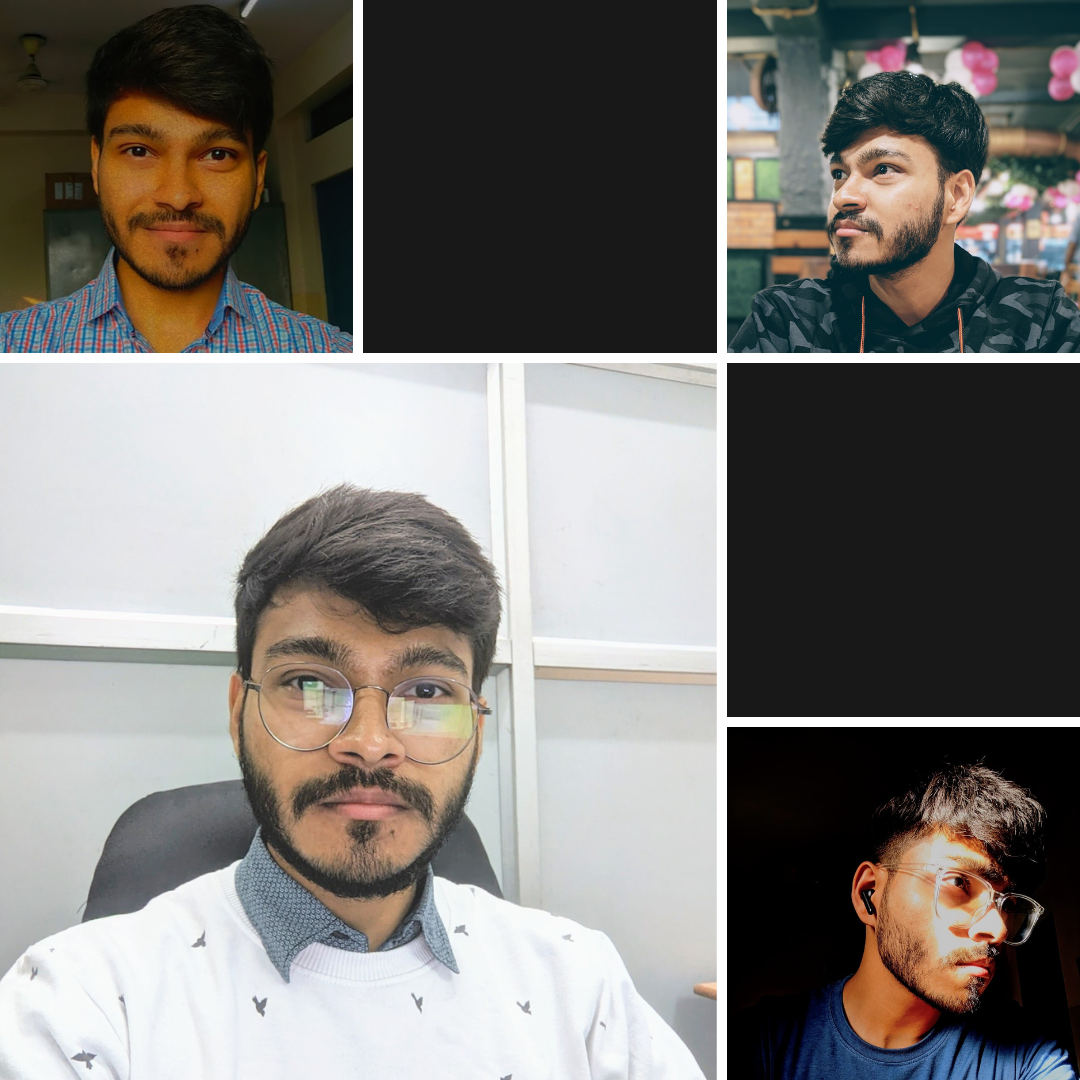
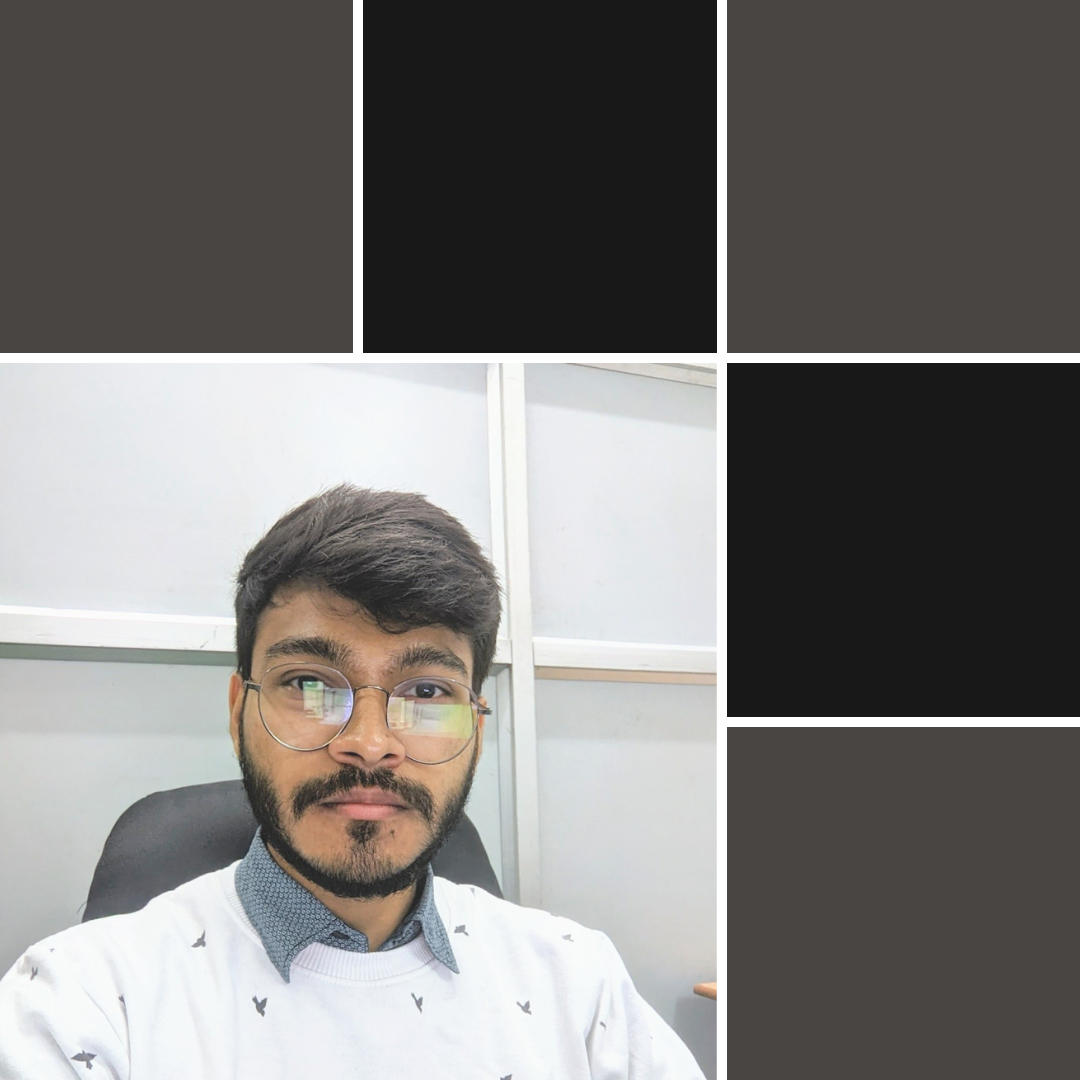
edited about page

diff --git a/src/pages/AboutPage.js b/src/pages/AboutPage.js
@@ -1,6 +1,8 @@
 import React from 'react'
 import Heading from '../components/Heading'
 import MeImage from '../assets/images/me.png'
+import SoftwareImage from '../assets/images/soft.png'
+import HardwareImage from '../assets/images/hard.png'
 import Menu from '../components/Menu'
 
 const AboutPage = () => {
@@ -17,48 +19,32 @@ const AboutPage = () => {
                             <h1>
                                 Started to learn <i>Web Development</i> back in <span>2021</span> - have been <span>loving</span> it ever since!
                             </h1>
-                        </div>
-                    </div>
-                    <div className="row">
-                        <div className="text">
                             <h1>
                                 Now, I create <i>websites</i>, <i>android apps</i>, <i>UI/UX</i> designs.
                             </h1>
                         </div>
-                        <img src={MeImage} alt="" />
                     </div>
                     <div className="row">
-                        <img src={MeImage} alt="" />
                         <div className="text">
                             <h1>
                                 I've also explored <i>Machine Learning</i> and <i>Deep Learning</i> a bit.
                             </h1>
-
-                        </div>
-                    </div>
-                    <div className="row">
-                        <div className="text">
                             <h1>
                                 Have worked with <span>Natural Language Processing</span> and <span>Computer Vision</span>.
                             </h1>
                         </div>
-                        <img src={MeImage} alt="" />
+                        <img src={SoftwareImage} alt="" />
                     </div>
                     <div className="row">
-                        <img src={MeImage} alt="" />
+                        <img src={HardwareImage} alt="" />
                         <div className="text">
                             <h1>
-                                Been in the <span>hardware</span> game aswell! Designed few <i>PCBs</i> and <i>CAD</i> designs.
+                                Been in the <span>hardware</span> game aswell. Designed few <i>PCBs</i> and <i>CAD</i> designs.
                             </h1>
-                        </div>
-                    </div>
-                    <div className="row">
-                        <div className="text">
                             <h1>
                                 Have worked with <span>Arduino</span>, <span>Raspberry Pi</span>, <span>Arducopter</span> and several <i>sensors</i>.
                             </h1>
                         </div>
-                        <img src={MeImage} alt="" />
                     </div>
                 </div>
             </div>

diff --git a/src/styles/App.sass b/src/styles/App.sass
@@ -58,6 +58,7 @@
             &:hover
                 transform: translateY(-0.5rem)
                 background: $color-tertiary
+                font-weight: 600
             .sub-text
                 font-size: 0.8rem
             .text
@@ -141,10 +142,15 @@
     justify-content: space-between
     // border: 1px solid $color-tertiary
     transition: all 0.3s ease
-    // border: 1px solid $color-primary
+    border: 1px solid $color-tertiary
+    border-radius: 10px
+    // background: $color-secondary
+    // color: $color-primary
     &:hover
+        transform: translateY(-0.2rem)
+        background: $color-tertiary
         // border: 1px solid $color-tertiary
-        box-shadow: rgba(33, 35, 38, 0.1) 0px 10px 10px -10px
+        // box-shadow: rgba(33, 35, 38, 0.1) 0px 10px 10px -10px
     img
         height: 250px
         width: 100%
@@ -179,13 +185,14 @@
                 width: 50%
                 object-fit: cover
             .text
-                // padding: 0 1rem
+                padding: 0 1rem
                 width: 50%
                 display: flex
                 flex-direction: column
+                justify-content: center
                 gap: 1rem
                 h1
-                    font-size: 7rem
+                    font-size: 4rem
                     font-family: $font
                     color: gray
                     i

diff --git a/src/styles/App.css b/src/styles/App.css
@@ -68,6 +68,7 @@
 .nav-container .nav .nav-item-v:hover {
   transform: translateY(-0.5rem);
   background: #dadada;
+  font-weight: 600;
 }
 .nav-container .nav .nav-item-v .sub-text {
   font-size: 0.8rem;
@@ -163,9 +164,12 @@
   flex-direction: column;
   justify-content: space-between;
   transition: all 0.3s ease;
+  border: 1px solid #dadada;
+  border-radius: 10px;
 }
 .card:hover {
-  box-shadow: rgba(33, 35, 38, 0.1) 0px 10px 10px -10px;
+  transform: translateY(-0.2rem);
+  background: #dadada;
 }
 .card img {
   height: 250px;
@@ -209,13 +213,15 @@
      object-fit: cover;
 }
 .about .about-container .row .text {
+  padding: 0 1rem;
   width: 50%;
   display: flex;
   flex-direction: column;
+  justify-content: center;
   gap: 1rem;
 }
 .about .about-container .row .text h1 {
-  font-size: 7rem;
+  font-size: 4rem;
   font-family: "Sora", sans-serif;
   color: gray;
 }
